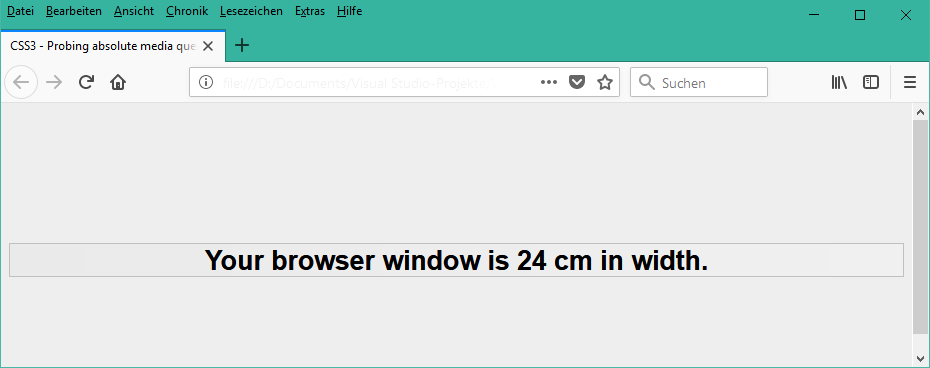
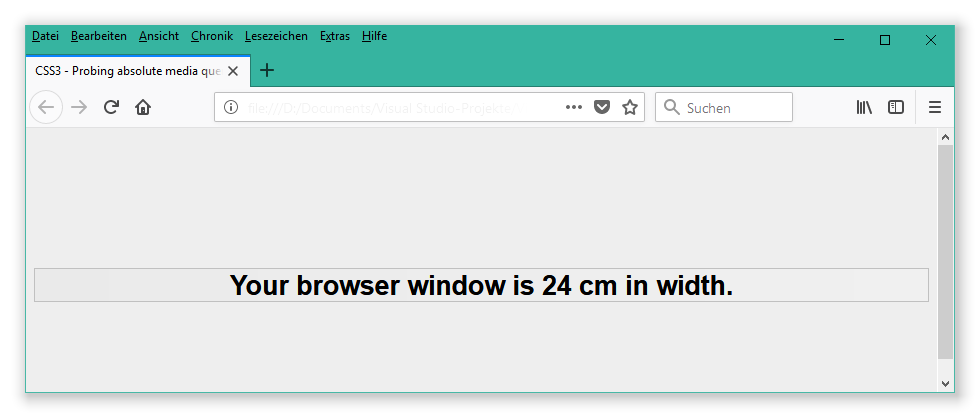
Description and help text updated. Drop-shadow added to sample image.

Changed region(s): [[0.0, 0.0, 1.0, 1.0], [0.2183, 0.6576, 0.7796, 0.7473]]

diff --git a/mediaQueries.html b/mediaQueries.html
@@ -5,7 +5,7 @@
 		<meta charset="UTF-8"/>
 		<meta name="viewport" content="width=device-width, initial-scale=1.0"/>
 		<meta http-equiv="X-UA-Compatible" content="ie=edge"/>
-		<meta name="description" content="This Page is probing a browser's capability to correctly recognize a browser viewport's absolute size." />
+		<meta name="description" content="This Page is probing a browser's capability to correctly recognize a browser viewport's absolute size and applying it to CSS3 Media Queries as absolute lengths." />
 		<meta name="keywords" content="CSS,CSS3,Media Queries" />
 		<meta name="author" content="Axel Dahmen, Germany"/>
 		<title>CSS3 - Probing absolute media queries</title>

diff --git a/readMe.md b/readMe.md
@@ -1,5 +1,11 @@
 # CSS3 Absolute Length Media Query Probing Page
-The HTML page of this package gives information about whether a web browser correctly reads OS device information and applies it to CSS3 media queries.
+This package gives information about whether a web browser reads OS device information and applies it to CSS3 media queries using absolute lengths.
+
+It outputs the width of the viewport according the media queries like:
+
+```css
+@media screen and (min-width: ...cm)
+```
 
 ### Reason
 
